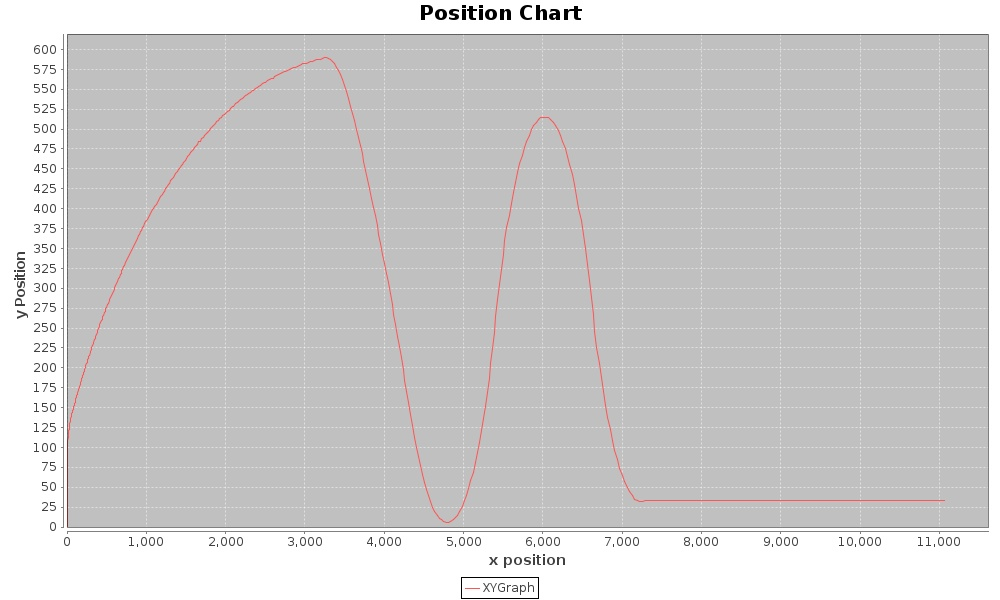
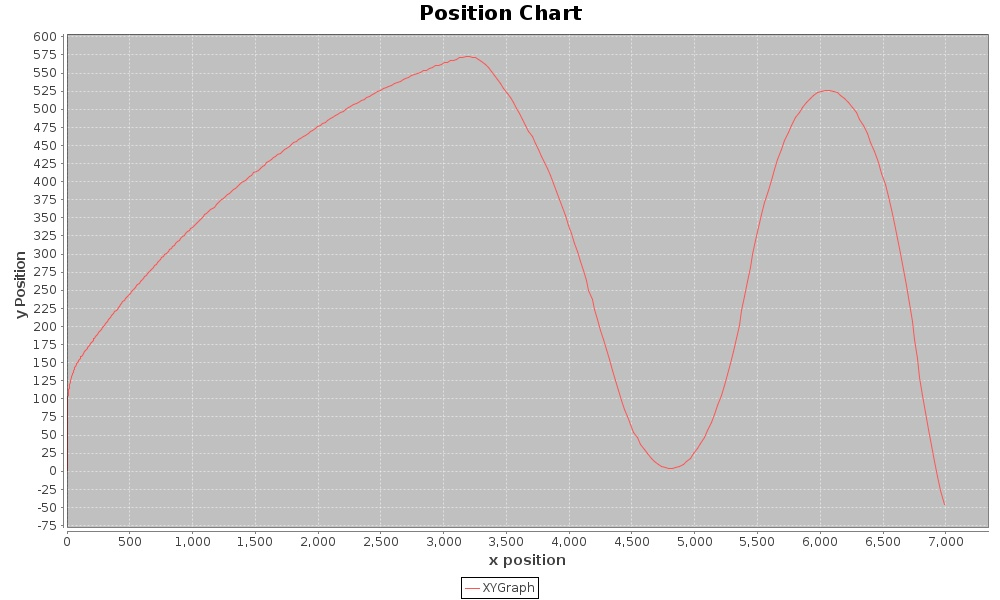
Disabling SC updates

diff --git a/src/model/Aircraft.java b/src/model/Aircraft.java
@@ -25,6 +25,15 @@ public class Aircraft extends MovingEntity {
 	public int odd = 0;
 	public int finish = 0;
 	
+	// Angle for loop
+	
+	public double airCurAngle;	
+	public double airDesiredAngle;
+	public double TURNRATE = 10;
+	//public double angle;
+	
+	
+	
 	public int detectionDist = 300;
 	public Vector2D gForce;
 	
@@ -180,7 +189,7 @@ public class Aircraft extends MovingEntity {
 			if (position.y > 360)
 				position.y = 360;
 		}
-		else
+		else if (choice == 1)
 		{
 			if (finish == 0){
 			Random rand;
@@ -191,7 +200,7 @@ public class Aircraft extends MovingEntity {
 			
 			if(randomSelct <=1)
 			{
-				Swerve();
+				Wave();
 				N++;
 				if( N == 50)
 					finish = 0;
@@ -202,13 +211,16 @@ public class Aircraft extends MovingEntity {
 				position.y = position.y + velocity.y * Missile.timeSeconds;
 				if (position.y > 360)
 					position.y = 360;
-			}
+			}//*/
 			/*else
 			{
-				// loopy do dah
+				Loop();
 			}*/
 
-		}
+		}/*else
+		{
+
+		}*/
 	}
 
 	@Override
@@ -217,7 +229,39 @@ public class Aircraft extends MovingEntity {
 		
 	}
 	
-	public void Swerve()
+	private void adjustCurAngle(){
+		 if((int) airDesiredAngle < airCurAngle)
+			airCurAngle += TURNRATE;
+		else if((int)airDesiredAngle > airCurAngle)
+			airCurAngle -= TURNRATE;
+		 
+		// System.out.println("Current Angle is " + airCurAngle);
+	}
+	
+	public double getAngle() { 
+	    double angle = (double) Math.toDegrees(Math.atan2(this.position.x, this.position.y)); 
+	    
+	    System.out.println("Current Angle is " + angle);
+	    
+	    if(angle < 0)
+	        angle += 360; 
+	   
+	    return angle - 90; 	
+	}
+	
+	public void Loop()
+	{
+		airCurAngle = getAngle();
+		airDesiredAngle = 180;
+		adjustCurAngle();
+		//velocity = 
+		position.x = position.x + (velocity.x * Math.cos(Math.toRadians(airCurAngle)) * Missile.timeSeconds);
+		position.y = position.y + velocity.y * Missile.timeSeconds * Math.sin(Math.toRadians(airCurAngle));
+		
+		
+	}
+	
+	public void Wave()
 	{
 		// Randomize the evasion technique
 					if (N == 30)

diff --git a/src/model/GameWorldModel.java b/src/model/GameWorldModel.java
@@ -62,7 +62,7 @@ public class GameWorldModel extends AbstractModel {
 			   MAP[i][j] = 2 + randomGenerator.nextInt(4);
 		}
 	
-
+			//nice swerve when va = 5.5  Vm = 5.6
 			//aircraft = new Aircraft(new Vector2D (500, 100), 5, new Vector2D(5.2, 0), 400, new Vector2D (900, 100), 300, new Vector2D(5,5), 1, 2.0);
 	        aircraft = new Aircraft(new Vector2D (400, -200), 5, new Vector2D(3, 0), 5.5, new Vector2D (900, 100), 300, new Vector2D(5,5), 1, 5.0);
 			missile = new Missile(new Vector2D (200, 400), 5, new Vector2D(0, 0), 5.6, new Vector2D (0, 0), 5000, 

diff --git a/src/model/Missile.java b/src/model/Missile.java
@@ -212,7 +212,7 @@ public class Missile extends MovingEntity {
 	}*/		
 
 	
-
+//*
 	public void update(MovingEntity target, double delta) {
 		totalTime += delta;
 		timeSeconds = totalTime/1000000000L;
@@ -276,7 +276,7 @@ public class Missile extends MovingEntity {
 			
 			speedArray.add(velocity.length());
 		}
-}
+}//*/
 
 	
 	private void updatePosition() {
